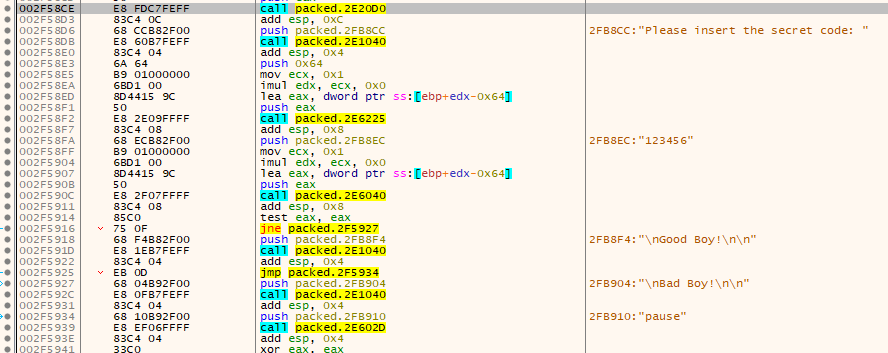
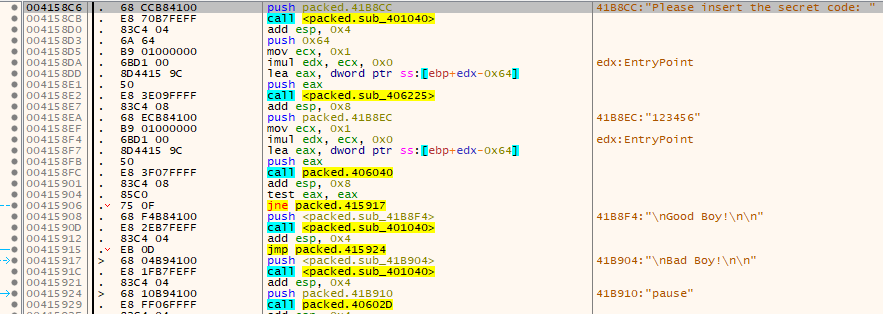
Removed Base Address Randomization

Changed region(s): [[0.0, 0.0, 1.0, 1.0]]

diff --git a/_lections/lection_1.md b/_lections/lection_1.md
@@ -2,7 +2,9 @@
 layout: post
 author: UnpackingNoobs
 title: "Lection 1: What does it mean to be packed?"
-contents: ["Binary unpacking"]
+date: null
+tags:
+    - "Binary unpacking"
 ---
 
 ### In this lection we will learn:
@@ -23,27 +25,29 @@ Since the whole series is from a noob for noobs, we will not dive too deep into 
 For now, let's just have a look at the two examples provided with the material for this lection. In the _bin_ folder you will find two files called `original.exe` and `packed.exe`.\
 Open them up and compare them. Do they behave different? What are their file sizes, are the different?\
 You should come to the conclusion that both programs do exactly the same thing, they both ask you for the secret code (which is _123456_ by the way) and give you a Goodboy/Badboy message depending on what you've put in. But why is the packed version only half the size you might ask. Of course there can be many reasons for a different file size like a different compiler, compiler settings, runtime, programming language etc. but that's all not the case here.\
-To investigate further, we can open the two programs in a hex editor and search for the strings that are used, e.g. _'Please insert the secret code'_. For the _original.exe_ you should have no problems to locate the string in the file, but what's with the _packed.exe_? The strings are nowhere to be found.\
+To investigate further, we can open the two programs in a hex editor and search for the strings that are used, e.g. _'Please insert the secret code'_. For the _original.exe_ you should have no problems to locate the string in the file, but what's with the _packed.exe_? The strings are nowhere to be found.<br/>
 
 ![The strings can easily be found in the original.exe]({{site.url}}/assets/lection_1/hexeditor.png)
 
 Next, open up your favorite debugger, load the two programs and let them run to the entry point of the program and compare the assembly. That's strange, they look completely different. Also, if you search for string references, you will find nothing for the _packed.exe_.
 
-![The entry point of original.exe]({{site.url}}/assets/lection_1/ep_original.png)\
-![The entry point of packed.exe]({{site.url}}/assets/lection_1/hexeditor.png)
+![The entry point of original.exe]({{site.url}}/assets/lection_1/ep_original.png)<br/><br/>
+![The entry point of packed.exe]({{site.url}}/assets/lection_1/ep_packed.png)
 
-Now let the program run freely (F9/Play Button in x64dbg) and search for string references again. Well that's interesting - now there are strings. Where did they come from? It looks like they have been created at runtime.\
-Now compare the locations where the strings are used in the _original.exe_ and the _packed.exe_ - are they different? You should make the - maybe unexpected - observation that both programs use the exact same code, only the code seems to be located at a different address. How is this possible, just seconds ago it looked like we had two different programs and now they look absolutely identical?\
+Now let the _packed.exe_ run freely (F9/Play Button in x64dbg) and search for string references again. Well that's interesting - now there are strings. Where did they come from? It looks like they have been created at runtime.<br/>
+Now compare the locations where the strings are used in the _original.exe_ and the _packed.exe_ - are they different? You should make the - maybe unexpected - observation that both programs use the exact same code, even the addresses are the same (0x004158C6). How is this possible, just seconds ago it looked like we had two different programs and now they look absolutely identical?<br/>
 
 ![The place where the strings are used]({{site.url}}/assets/lection_1/code_unpacked.png)
 
-Make one more observation by remembering the address of the _PUSH_ instruction that pushes the _'Please insert the...'_ string onto the stack (0x002558D6 for original.exe and 0x002F58D6 for packed.exe), reset the program (but only run it up until the entry point) and than have a look at the remembered address (Ctrl+G in x64dbg). For the _original.exe_ everything looks just fine, just as we expected it. But what's up with the _packed.exe_ ? The instructions look like garbage and there are bytes that are not even a valid instruction. Let the program run again (F9) and tell your debugger to re-analyze the code and ... boom, the valid code is back.\
+Make one more observation by remembering the address of the _PUSH_ instruction that pushes the _'Please insert the...'_ string onto the stack (0x004158C6), reset the program (but only run it up until the entry point) and then have a look at the remembered address (Ctrl+G in x64dbg). For the _original.exe_ everything looks just fine, just as we expected it. But what's up with the _packed.exe_ ? The instructions look like garbage and there are bytes that are not even a valid instruction. Let the program run again (F9) and tell your debugger to re-analyze the code and ... boom, the valid code is back.<br/>
 
 ![Scrambled data]({{site.url}}/assets/lection_1/code_packed.png)
 
 At this point it should be obvious that somewhere within the program the real instructions have been restored and were placed here. This gives us a first idea of what a packed program looks like and how is behaves: There seems to be some sort of magic code that is executed at the start of the program that will then somehow generate and execute the real program code thus making the program behave just like we would have executed the original version.
 
 ![A sketch on how a packed program works]({{site.url}}/assets/lection_1/packer_simple.png)
+
+That's it for now for our first tiny step into the world of unpacking. In the next lection we will try to gain an understanding how we can put the _un_ in unpacking.
 
 ### What have we observed so far?
 

diff --git a/index.md b/index.md
@@ -4,7 +4,8 @@ layout: default
 
 ### Lections:
 
-- Lection 1: What does it mean to be packed? [Coming soon]
+- [Lection 1: What does it mean to be packed?](/lections/lection_1) [Coming soon]
+- Lection 2: What does it mean to be un-packed? [Coming soon]
 
 * * *
 
